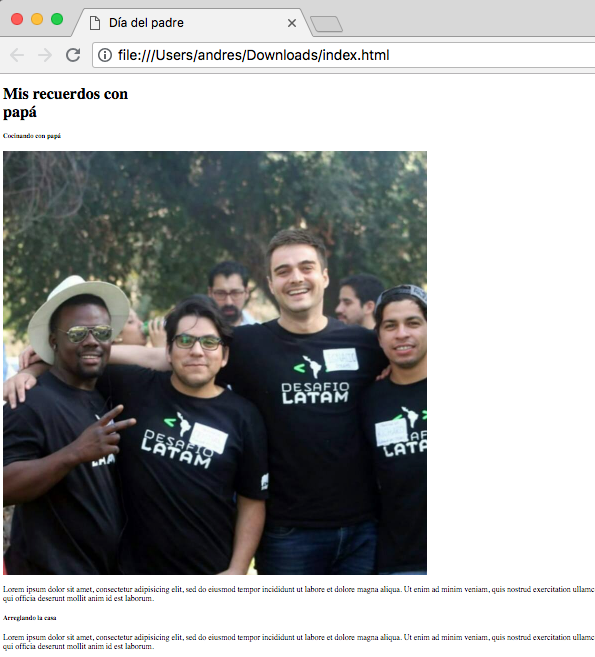
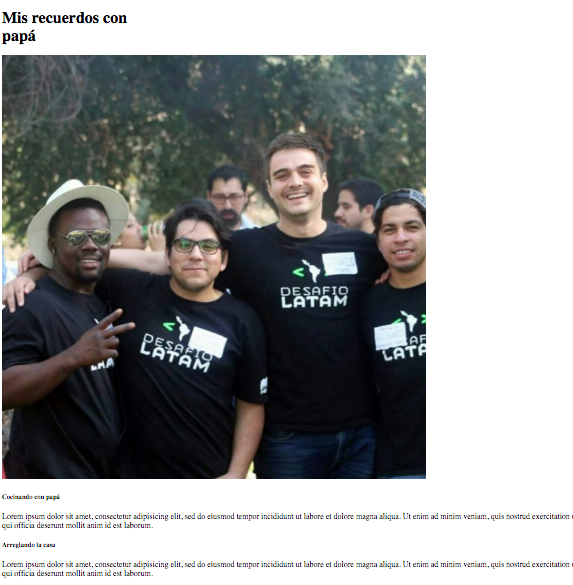
new code

diff --git a/Readme.md b/Readme.md
@@ -45,7 +45,7 @@ Como editor de texto te recomendamos:
 
 Vamos a hacer una página web, para compartir recuerdos con todo el mundo, y mostrar los buenos momentos, que tengamos con nuestro papá, padrastro, abuelo. 
 
-La página se vera así:![web](./assets/img/web.png)
+La página se vera así:![web](./assets/img/sitio-web.png)
 
 ¿Genial no?, Antes de continuar, vamos a definir algunos conceptos para acompañar la actividad con conocimientos básicos. ¡Vamos a ello!.
 
@@ -475,9 +475,9 @@ Mi código se debe ver así:
   	</head>
   	<body>
     	<h1><span>Mis recuerdos con </span><br>papá</h1>
-
-	    <h5>Cocinando con papá</h5>
+	    
 	    <img src="https://scontent.fscl6-1.fna.fbcdn.net/v/t1.0-9/30571957_2153329024941595_8643680236489146368_n.jpg?_nc_cat=0&oh=01f6ce80a424ed30709ccef1aeabfe82&oe=5B948E5A">
+	    <h5>Cocinando con papá</h5>
 	    <p> Lorem ipsum dolor sit amet, consectetur adipisicing elit, sed do eiusmod tempor incididunt ut labore et dolore magna aliqua. Ut enim ad minim veniam, quis nostrud exercitation ullamco laboris nisi ut aliquip ex ea commodo consequat. Duis aute irure dolor in reprehenderit in voluptate velit esse cillum dolore eu fugiat nulla pariatur. Excepteur sint occaecat cupidatat non proident, sunt in culpa qui officia deserunt mollit anim id est laborum.</p>
 	    
 	    <h5>Arreglando la casa</h5>
@@ -545,10 +545,9 @@ Mi código esta así:
   	</head>
   	<body>
    	 	<h1><span>Mis recuerdos con </span><br>papá</h1>
-
-	    <h5>Cocinando con papá</h5>
-   		
+   	 	
    		<img src="./assets/img/img-1.jpg" alt="cocinando">
+   		<h5>Cocinando con papá</h5>
 	    <p> Lorem ipsum dolor sit amet, consectetur adipisicing elit, sed do eiusmod tempor incididunt ut labore et dolore magna aliqua. Ut enim ad minim veniam, quis nostrud exercitation ullamco laboris nisi ut aliquip ex ea commodo consequat. Duis aute irure dolor in reprehenderit in voluptate velit esse cillum dolore eu fugiat nulla pariatur. Excepteur sint occaecat cupidatat non proident, sunt in culpa qui officia deserunt mollit anim id est laborum.</p>
 	    
    		<img src="./assets/img/img-2.jpg" alt="arreglando">
@@ -571,11 +570,11 @@ Mi código esta así:
 		<h5>Mis primeros cuentos</h5>
 	    <p> Lorem ipsum dolor sit amet, consectetur adipisicing elit, sed do eiusmod tempor incididunt ut labore et dolore magna aliqua. Ut enim ad minim veniam, quis nostrud exercitation ullamco laboris nisi ut aliquip ex ea commodo consequat. Duis aute irure dolor in reprehenderit in voluptate velit esse cillum dolore eu fugiat nulla pariatur. Excepteur sint occaecat cupidatat non proident, sunt in culpa qui officia deserunt mollit anim id est laborum.</p>
 	    
-	    <img src="./assets/img/img-7.jpg" alt="Halloween">	 
+	    <img src="./assets/img/img-7.jpg" alt="Halloween">
 		<h5>Fiesta de Halloween</h5>
 	    <p> Lorem ipsum dolor sit amet, consectetur adipisicing elit, sed do eiusmod tempor incididunt ut labore et dolore magna aliqua. Ut enim ad minim veniam, quis nostrud exercitation ullamco laboris nisi ut aliquip ex ea commodo consequat. Duis aute irure dolor in reprehenderit in voluptate velit esse cillum dolore eu fugiat nulla pariatur. Excepteur sint occaecat cupidatat non proident, sunt in culpa qui officia deserunt mollit anim id est laborum.</p>
 	    
-	    <img src="./assets/img/img-8.jpg" alt="cenando">	 
+	    <img src="./assets/img/img-8.jpg" alt="cenando">
 		<h5>Cenando Juntos</h5>
 	    <p> Lorem ipsum dolor sit amet, consectetur adipisicing elit, sed do eiusmod tempor incididunt ut labore et dolore magna aliqua. Ut enim ad minim veniam, quis nostrud exercitation ullamco laboris nisi ut aliquip ex ea commodo consequat. Duis aute irure dolor in reprehenderit in voluptate velit esse cillum dolore eu fugiat nulla pariatur. Excepteur sint occaecat cupidatat non proident, sunt in culpa qui officia deserunt mollit anim id est laborum.</p>
 	    
@@ -612,10 +611,9 @@ Hagamos un pequeño resumen de lo que hemos aprendido:Si todo salió bien, Nuest
   	</head>
   	<body>
     	<h1><span>Mis recuerdos con </span><br>papá</h1>
-
-	    <h5>Cocinando con papá</h5>
    		
    		<img src="./assets/img/img-1.jpg" alt="cocinando">
+   		<h5>Cocinando con papá</h5>
 	    <p> Lorem ipsum dolor sit amet, consectetur adipisicing elit, sed do eiusmod tempor incididunt ut labore et dolore magna aliqua. Ut enim ad minim veniam, quis nostrud exercitation ullamco laboris nisi ut aliquip ex ea commodo consequat. Duis aute irure dolor in reprehenderit in voluptate velit esse cillum dolore eu fugiat nulla pariatur. Excepteur sint occaecat cupidatat non proident, sunt in culpa qui officia deserunt mollit anim id est laborum.</p>
 	    
    		<img src="./assets/img/img-2.jpg" alt="arreglando">
@@ -646,7 +644,7 @@ Hagamos un pequeño resumen de lo que hemos aprendido:Si todo salió bien, Nuest
 		<h5>Cenando Juntos</h5>
 	    <p> Lorem ipsum dolor sit amet, consectetur adipisicing elit, sed do eiusmod tempor incididunt ut labore et dolore magna aliqua. Ut enim ad minim veniam, quis nostrud exercitation ullamco laboris nisi ut aliquip ex ea commodo consequat. Duis aute irure dolor in reprehenderit in voluptate velit esse cillum dolore eu fugiat nulla pariatur. Excepteur sint occaecat cupidatat non proident, sunt in culpa qui officia deserunt mollit anim id est laborum.</p>
 	    
-	    <img src="./assets/img/img-9.jpg" alt="ganando">	 
+	    <img src="./assets/img/img-9.jpg" alt="ganando">
 		<h5>Cuando le gané por primera vez</h5> 
 	    <p> Lorem ipsum dolor sit amet, consectetur adipisicing elit, sed do eiusmod tempor incididunt ut labore et dolore magna aliqua. Ut enim ad minim veniam, quis nostrud exercitation ullamco laboris nisi ut aliquip ex ea commodo consequat. Duis aute irure dolor in reprehenderit in voluptate velit esse cillum dolore eu fugiat nulla pariatur. Excepteur sint occaecat cupidatat non proident, sunt in culpa qui officia deserunt mollit anim id est laborum.</p>
 	</body>
@@ -789,7 +787,7 @@ si todo salió bien tu código debería verse así:
 				<h5>Fiesta de Halloween</h5>
 			    <p> Lorem ipsum dolor sit amet, consectetur adipisicing elit, sed do eiusmod tempor incididunt ut labore et dolore magna aliqua. Ut enim ad minim veniam, quis nostrud exercitation ullamco laboris nisi ut aliquip ex ea commodo consequat. Duis aute irure dolor in reprehenderit in voluptate velit esse cillum dolore eu fugiat nulla pariatur. Excepteur sint occaecat cupidatat non proident, sunt in culpa qui officia deserunt mollit anim id est laborum.</p>
 			    
-			    <img src="./assets/img/img-8.jpg" alt="cenando">	 
+			    <img src="./assets/img/img-8.jpg" alt="cenando">
 				<h5>Cenando Juntos</h5>
 			    <p> Lorem ipsum dolor sit amet, consectetur adipisicing elit, sed do eiusmod tempor incididunt ut labore et dolore magna aliqua. Ut enim ad minim veniam, quis nostrud exercitation ullamco laboris nisi ut aliquip ex ea commodo consequat. Duis aute irure dolor in reprehenderit in voluptate velit esse cillum dolore eu fugiat nulla pariatur. Excepteur sint occaecat cupidatat non proident, sunt in culpa qui officia deserunt mollit anim id est laborum.</p>
 			    
@@ -1475,8 +1473,6 @@ Con esto estamos diciéndole a nuestro proyecto que descargue Boostrap, los requ
 Con todo esto correctamente puesto en nuestra página. guarda tu archivo y recarga la página.  Si todo salió bien, debería verse como la pagina mostrada al inicio.
 
 ***¡ Mucho Éxito !***
-
-
 
 ![](https://media1.tenor.com/images/4f586b8d5cdc536ada9889b58e6d91e8/tenor.gif?itemid=5131908)
 
